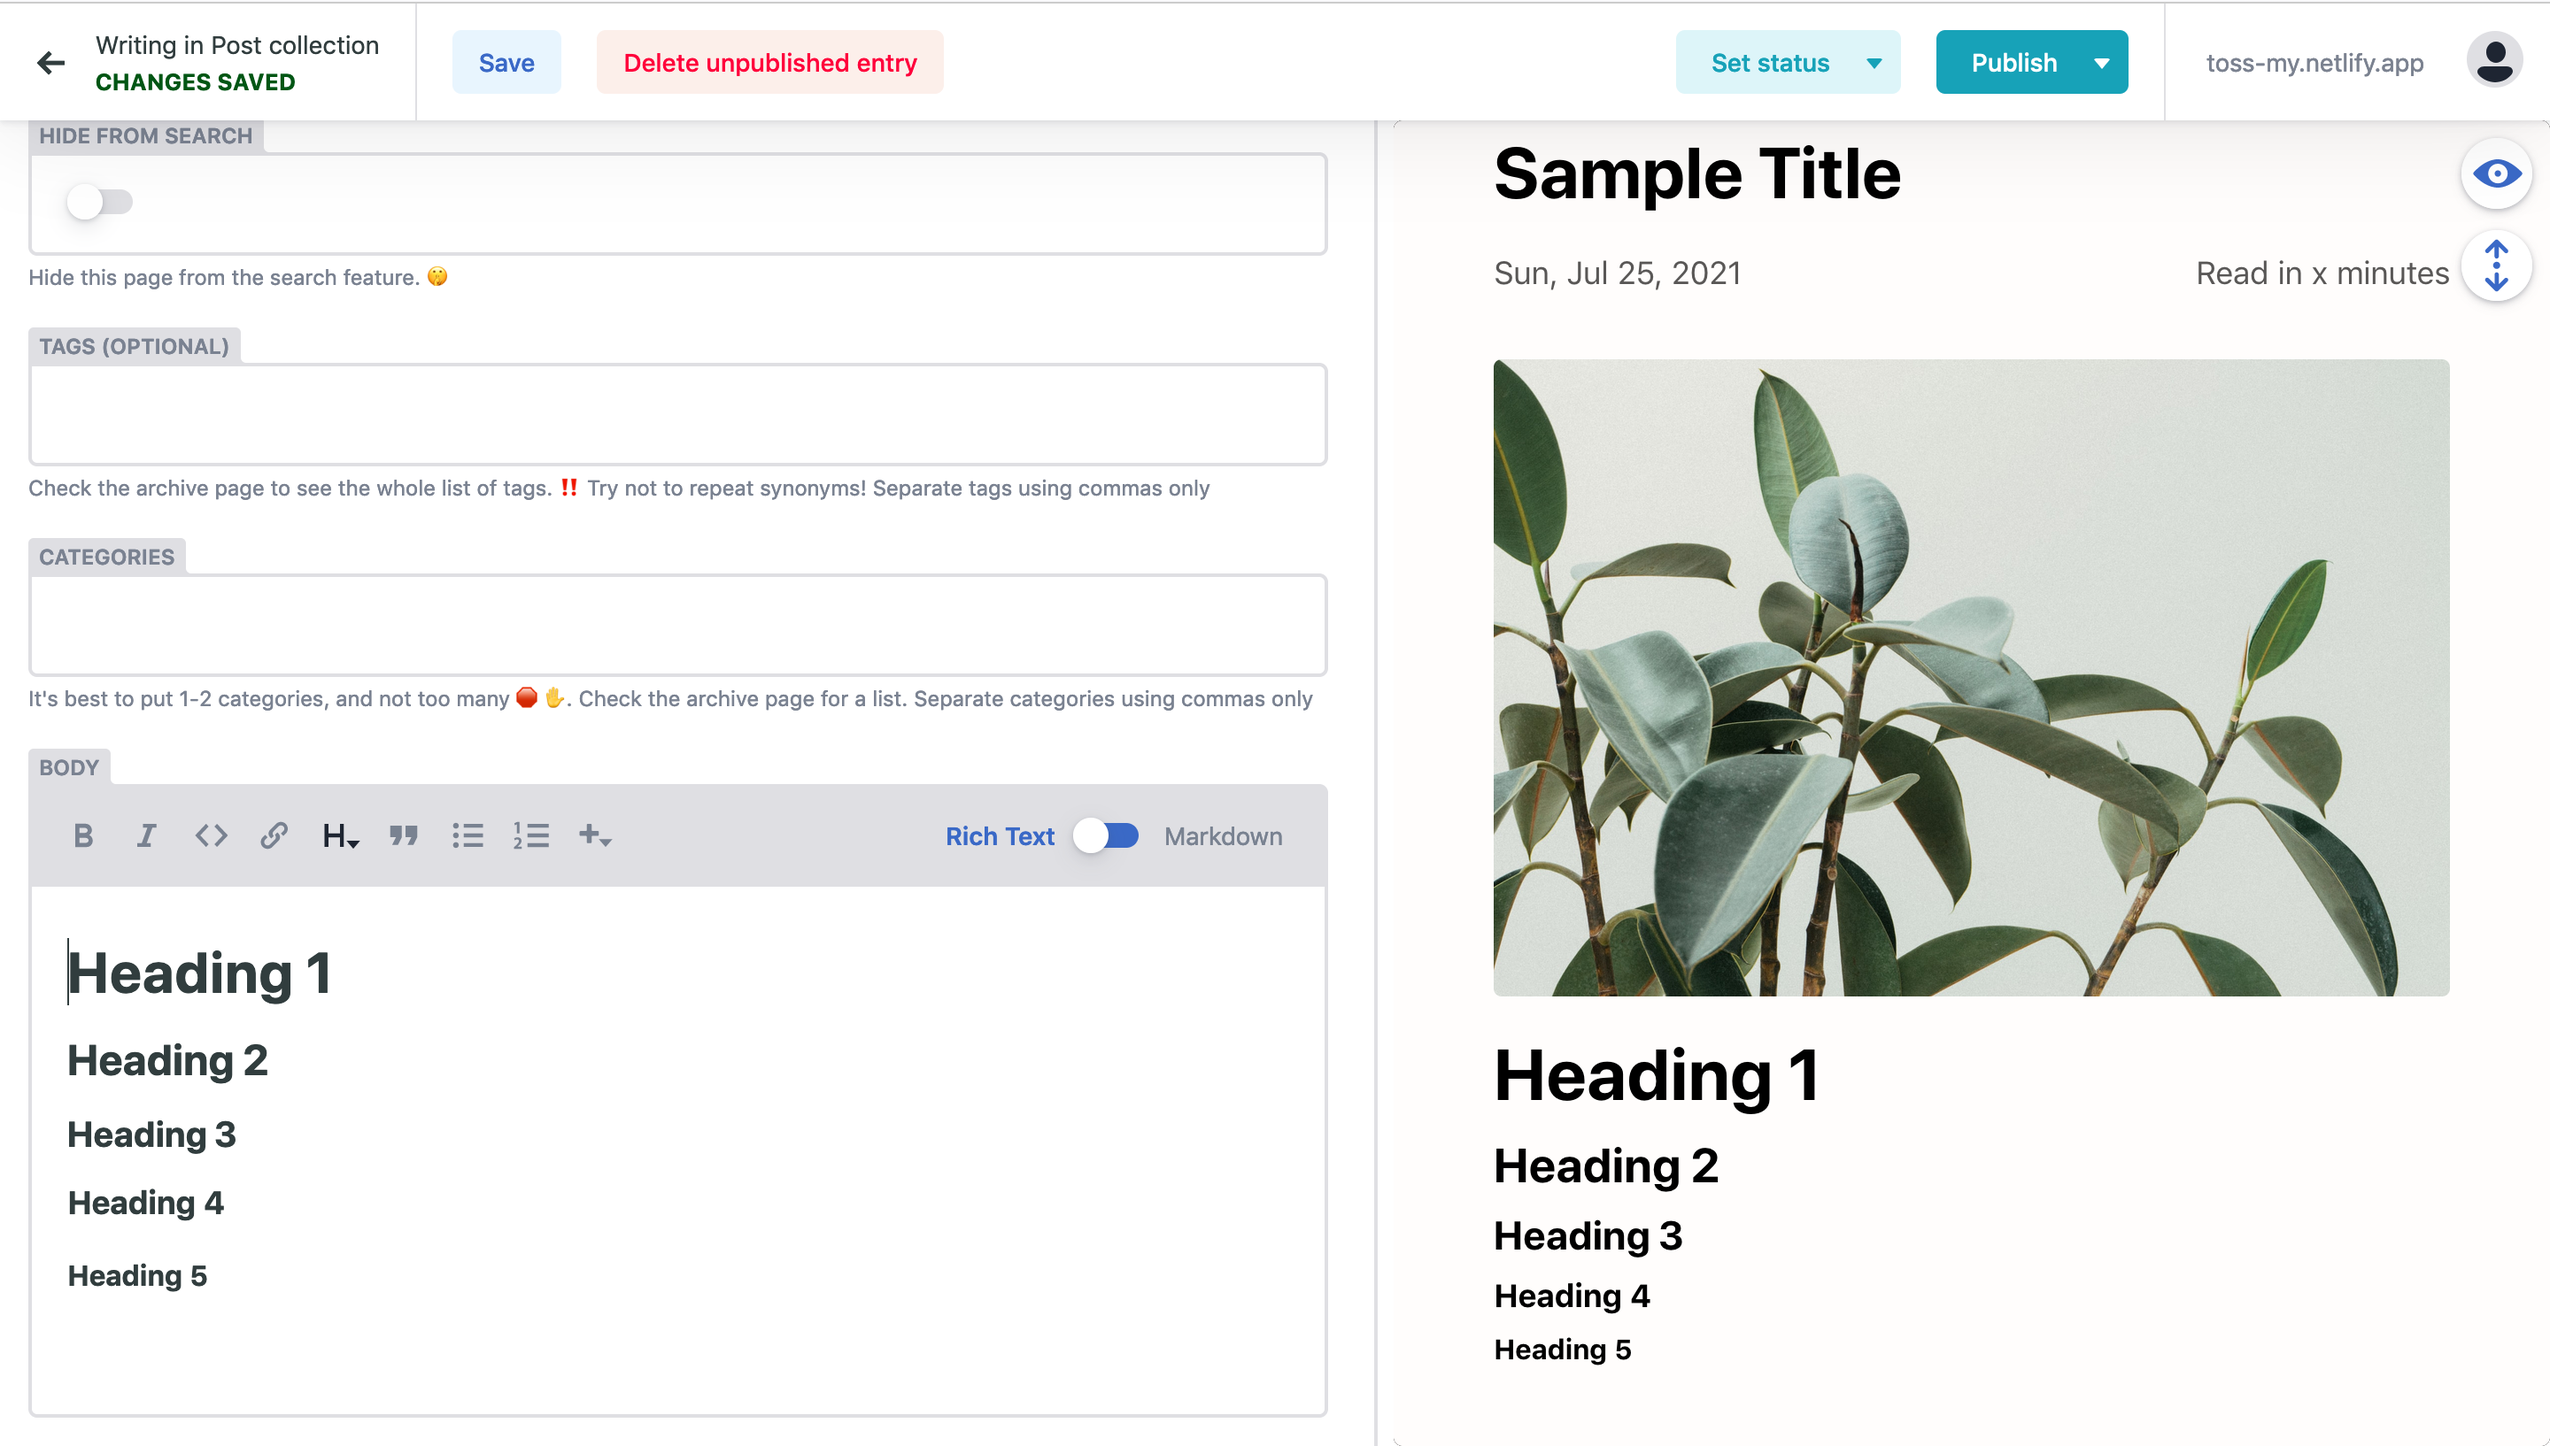
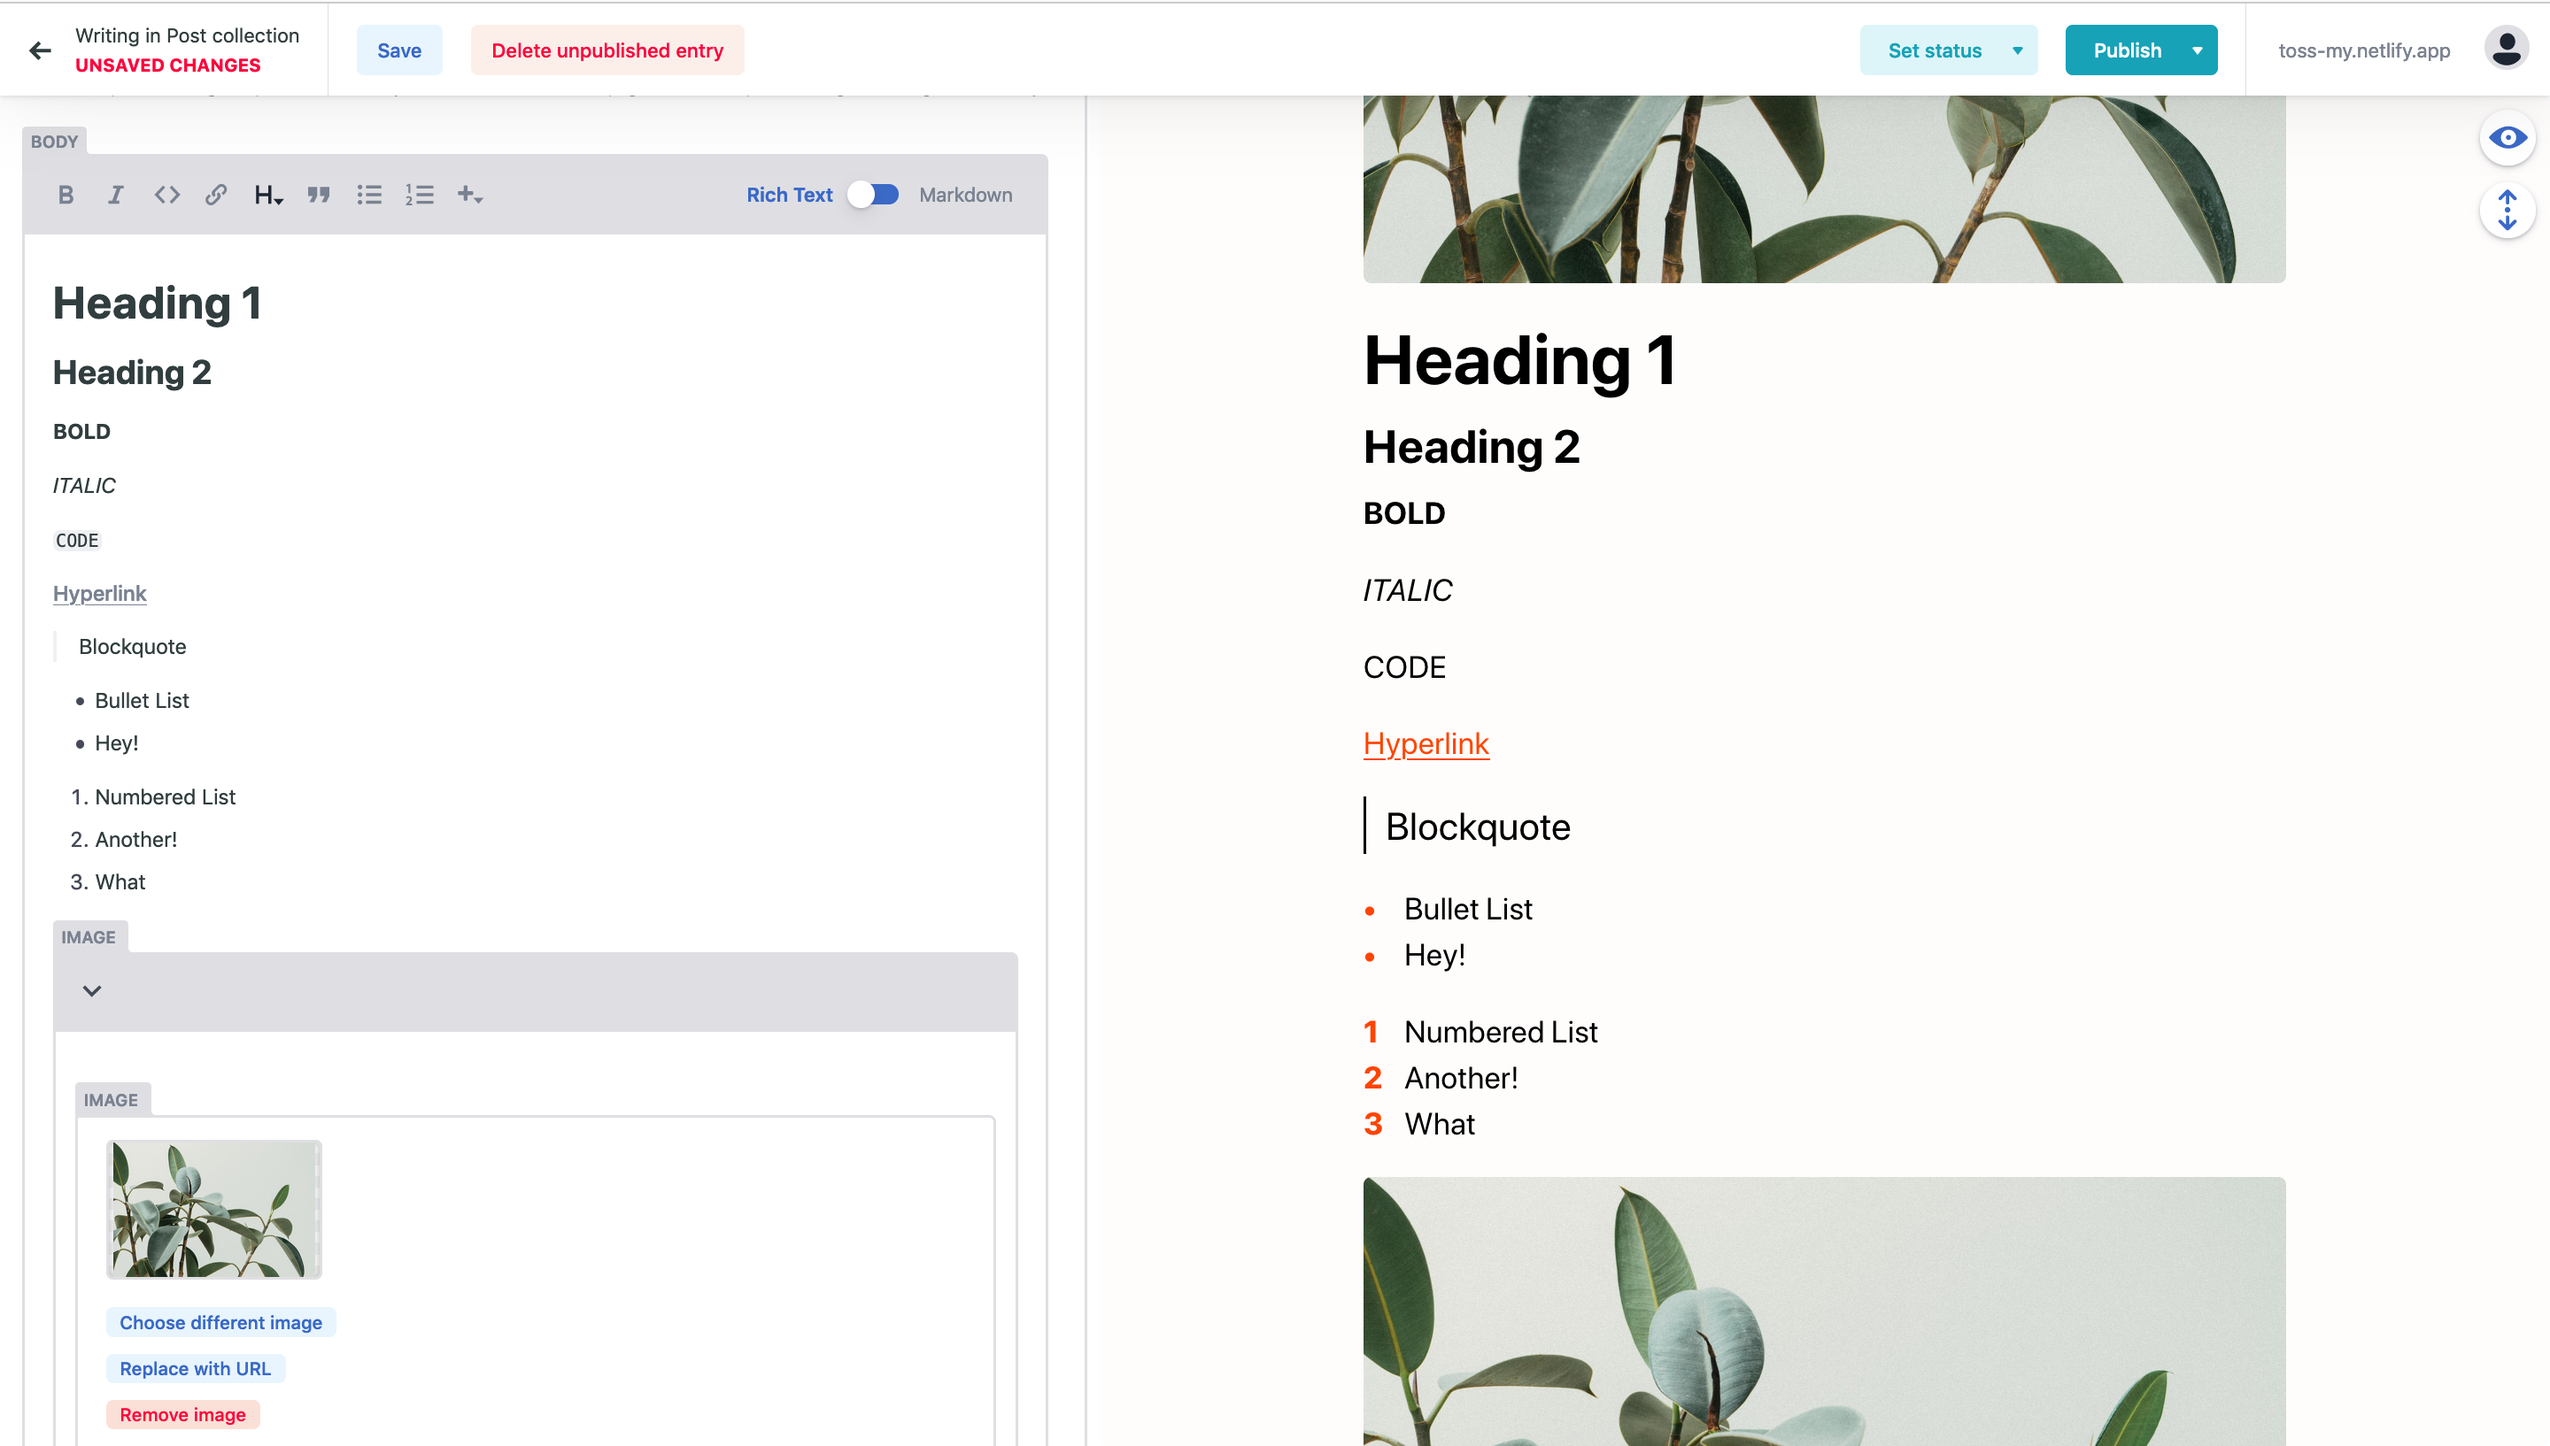
Tired

diff --git a/src/css/imports/_cms.css b/src/css/imports/_cms.css
@@ -108,4 +108,11 @@
         //     font-size: 30px;
         // }
     }
+    //I'll have to manually copy this from tachyon's site themselves, fuck you victor/kaldi one-click-hugo-cms theme!
+    & code {
+        font-family: Consolas, monaco, monospace;
+        background-color: var(--grey-1);
+        padding: 5px;
+        border-radius: 4px;
+    }
 }

diff --git a/site/content/about 2.md b/site/content/about 2.md
@@ -15,11 +15,13 @@ Hi, Tim here!
 I've written this guide here so you can help contribute to Toss.
 
 ## 1. Blast Off!
-Visit the [admin page](toss-my.netlify.app/admin/) and sign in. For safety reasons the login details aren't on this page (obviously). Go and ask the right people for it ;)
+Visit the [admin page](toss-my.netlify.app/admin/) and sign in. Click "login with Netlify Identity". For safety reasons the login details aren't on this page (obviously). Go and ask the right people for it ;)
 
-Click on 'New Post.'
+
 
 ![Screenshot of Netlify CMS](../img/ins-1.png)
+
+This is what your homepage looks like! It shows a list of all the posts on the website, which are all editable. Now click 'New Post'.
 
 Fill in the initial details – I've included ample instructions on how not to go wrong.
 Don't forget to upload a cover image! See the [image]({{< relref "#images" >}}) section of this post for more details.
@@ -28,15 +30,18 @@ Don't forget to upload a cover image! See the [image]({{< relref "#images" >}}) 
 
 Scroll down to the **Body** Section. You will find that the switch is flipped to 'Rich Text' mode (toggle it otherwise). This mode helps get pretty much everything done without getting too fussy into the technical details and code. Click around on the buttons and mess around! It should help you get accustomed to the features.
 
-Features:
+
+
+
+
+What's Included:
 - Bold and Italic styling
 - Hyperlinks
 - Set text size (Heading sizes included)
 - Enable blockquotes (Quite similar to what you'd get in Notion)
+- Bullet Lists and Number Lists
 
-> blockquotes
 
-> meow?
 
 
 
@@ -44,11 +49,13 @@ Features:
 
 
 
-## 2. Writing – Things to note:
+## 2. Postmaking – Things to note:
 ### Images
-Try to use images close to Full-HD resolution (1920 x 1080), and the file size should be around 500kB. This size strikes a good balance between quality and also website loading.
+Try to use images close to Full-HD resolution (1920 x 1080), and the file size should be around 500kB. This size strikes a good balance between quality and website loading times.
 
-You can find royalty-free illustration images on [Unsplash](unsplash.com). Don't forget to write an alternative text description for accessibility. More on accessibility [here]({{< relref "#accessibility">}})
+You can find royalty-free illustration images on [Unsplash](unsplash.com). Don't forget to write an alternative text description for accessibility. More on accessibility [here.]({{< relref "#accessibility">}})
+
+
 
 ## 3. Advanced Markdown Features
 
